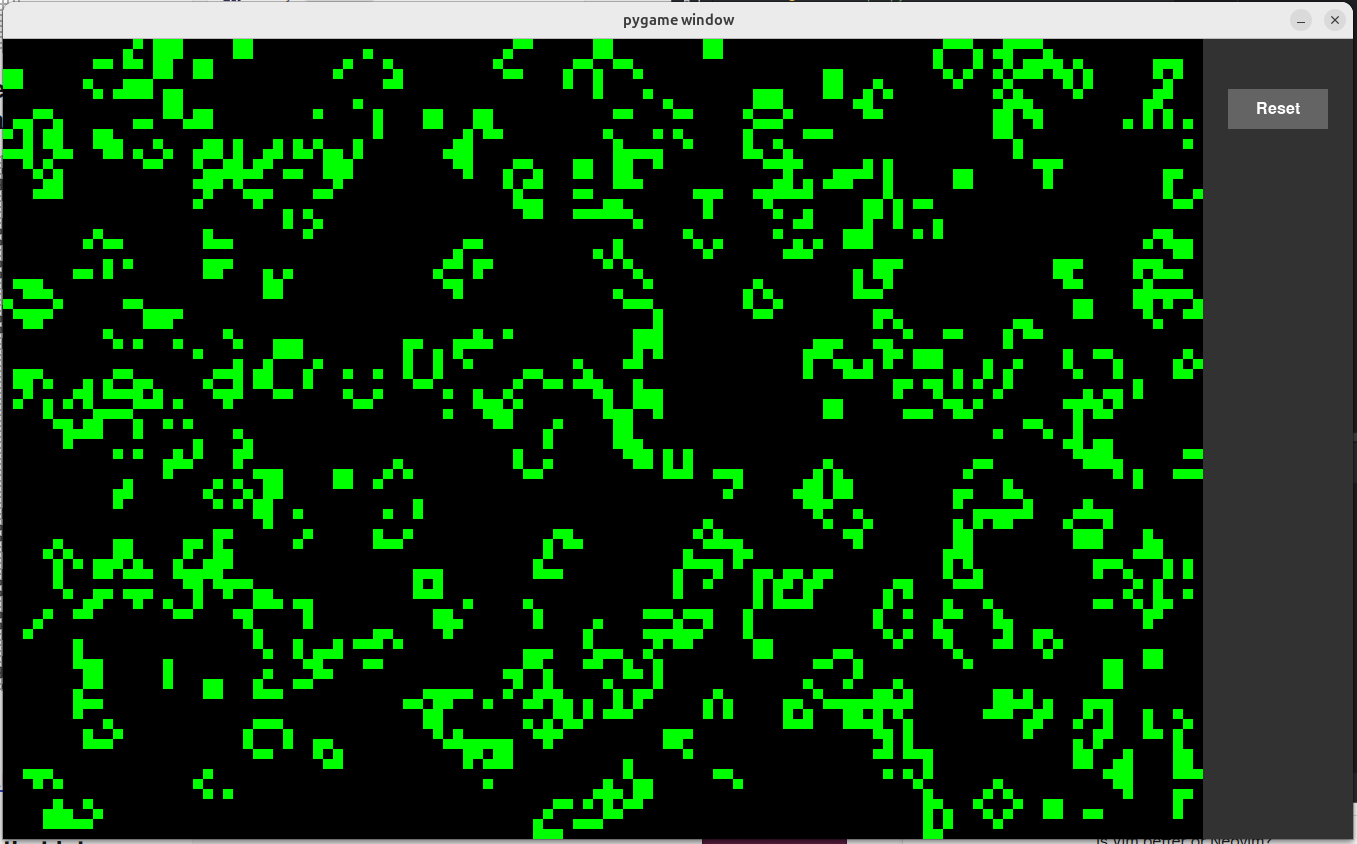
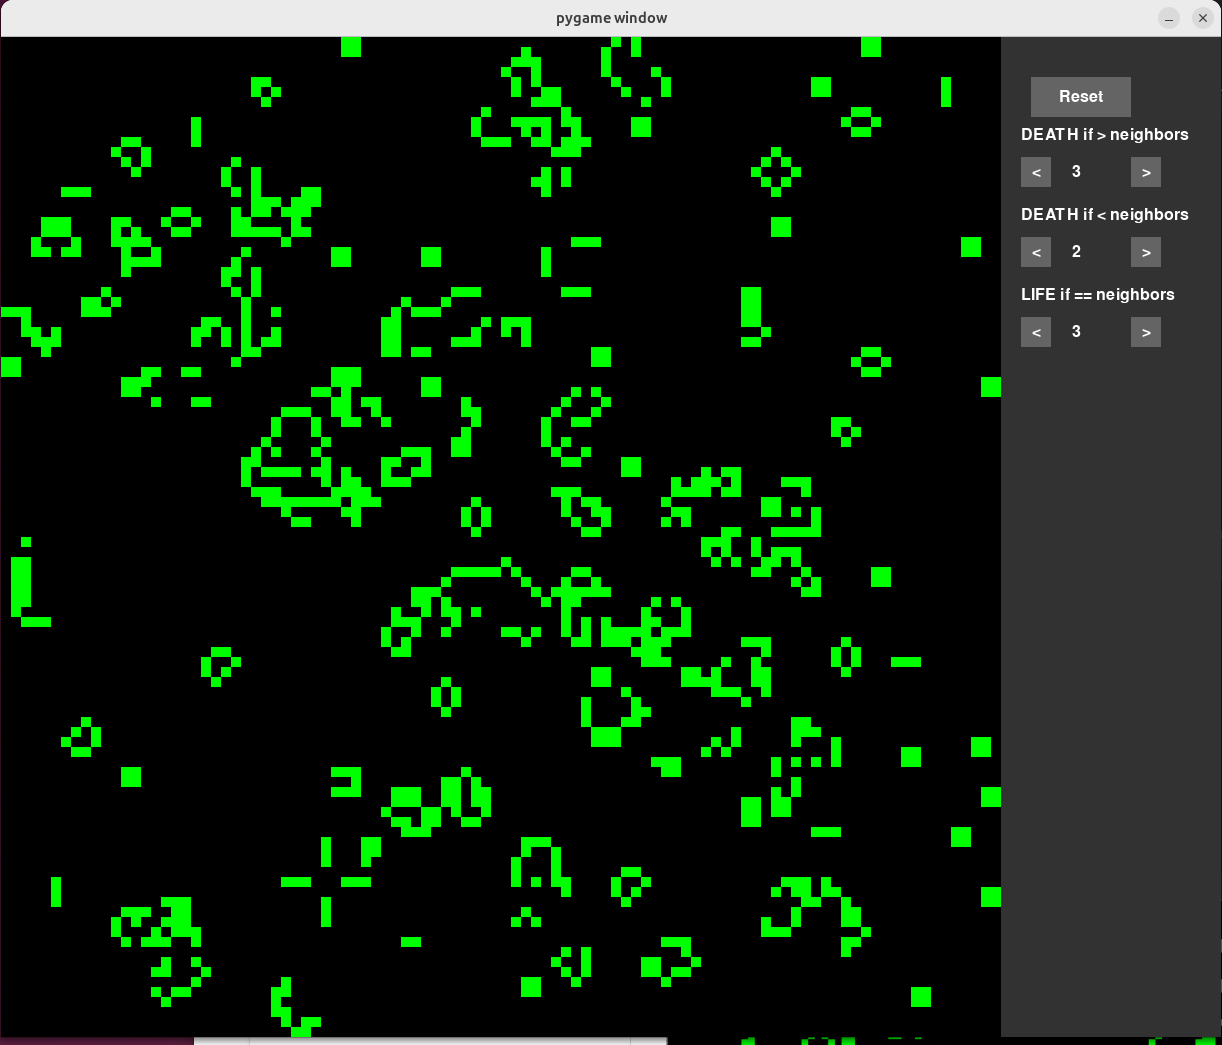
controls

diff --git a/gameoflife/game.py b/gameoflife/game.py
@@ -1,9 +1,10 @@
 import pygame
 import numpy as np
 
+# === Config ===
 CELL_SIZE = 10
-GRID_WIDTH, GRID_HEIGHT = 120, 80
-PANEL_WIDTH = 150  # Width of side panel
+GRID_WIDTH, GRID_HEIGHT = 100, 100
+PANEL_WIDTH = 220
 WINDOW_WIDTH = GRID_WIDTH * CELL_SIZE + PANEL_WIDTH
 WINDOW_HEIGHT = GRID_HEIGHT * CELL_SIZE
 FPS = 10
@@ -15,63 +16,98 @@ BUTTON_COLOR = (100, 100, 100)
 BUTTON_HOVER_COLOR = (150, 150, 150)
 TEXT_COLOR = (255, 255, 255)
 
+# === Init ===
 pygame.init()
 screen = pygame.display.set_mode((WINDOW_WIDTH, WINDOW_HEIGHT))
 clock = pygame.time.Clock()
-font = pygame.font.SysFont(None, 24)
+font = pygame.font.SysFont("Segoe UI Emoji", 24)
 
-# randomly setup 1s and 0s
+# === State ===
+MIN_LIMIT = 0
+MAX_LIMIT = 8
+grid = np.random.choice([0, 1], size=(GRID_HEIGHT, GRID_WIDTH))
+
+rules = [
+    {"label": "DEATH if > neighbors", "value": 3, "y": 120, "key": "overpop"},
+    {"label": "DEATH if < neighbors", "value": 2, "y": 200, "key": "underpop"},
+    {"label": "LIFE if == neighbors", "value": 3, "y": 280, "key": "repro"},
+]
+rule_map = {r["key"]: r for r in rules}
+
+reset_button_rect = pygame.Rect(WINDOW_WIDTH - PANEL_WIDTH + 30, 40, 100, 40)
+button_size = (30, 30)
+left_x = WINDOW_WIDTH - PANEL_WIDTH + 20
+right_x = left_x + 110
+
+# === Functions ===
+
 def create_random_grid():
     return np.random.choice([0, 1], size=(GRID_HEIGHT, GRID_WIDTH))
 
-grid = create_random_grid()
-
 def count_neighbors(grid, x, y):
-    neighbors = grid[max(0,y-1):y+2, max(0,x-1):x+2]
-    total = np.sum(neighbors) - grid[y, x]
-    return total
+    neighbors = grid[max(0, y-1):y+2, max(0, x-1):x+2]
+    return np.sum(neighbors) - grid[y, x]
 
 def update_grid(grid):
     new_grid = np.zeros_like(grid)
     for y in range(GRID_HEIGHT):
         for x in range(GRID_WIDTH):
-            neighbors = count_neighbors(grid, x, y)
-            if grid[y, x] == 1 and neighbors in [2, 3]:
-                new_grid[y, x] = 1
-            elif grid[y, x] == 0 and neighbors == 3:
-                new_grid[y, x] = 1
+            n = count_neighbors(grid, x, y)
+            if grid[y, x] == 1:
+                if rule_map["underpop"]["value"] <= n <= rule_map["overpop"]["value"]:
+                    new_grid[y, x] = 1
+            else:
+                if n == rule_map["repro"]["value"]:
+                    new_grid[y, x] = 1
     return new_grid
 
-# Define reset button rect
-reset_button_rect = pygame.Rect(WINDOW_WIDTH - PANEL_WIDTH + 25, 50, 100, 40)
+def draw_button(rect, text, mouse_pos):
+    color = BUTTON_HOVER_COLOR if rect.collidepoint(mouse_pos) else BUTTON_COLOR
+    pygame.draw.rect(screen, color, rect)
+    txt = font.render(text, True, TEXT_COLOR)
+    screen.blit(txt, txt.get_rect(center=rect.center))
+
+def draw_rule_control(rule, mouse_pos):
+    label = font.render(rule["label"], True, TEXT_COLOR)
+    screen.blit(label, (left_x, rule["y"] - 30))
+
+    rule["minus_rect"] = pygame.Rect(left_x, rule["y"], *button_size)
+    rule["plus_rect"] = pygame.Rect(right_x, rule["y"], *button_size)
+
+    draw_button(rule["minus_rect"], "<", mouse_pos)
+    draw_button(rule["plus_rect"], ">", mouse_pos)
+
+    val_text = font.render(str(rule["value"]), True, TEXT_COLOR)
+    val_rect = val_text.get_rect(center=((left_x + right_x) // 2, rule["y"] + 15))
+    screen.blit(val_text, val_rect)
+
+def handle_rule_click(pos):
+    for rule in rules:
+        if rule["minus_rect"].collidepoint(pos):
+            rule["value"] = max(MIN_LIMIT, rule["value"] - 1)
+        elif rule["plus_rect"].collidepoint(pos):
+            rule["value"] = min(MAX_LIMIT, rule["value"] + 1)
+
+# === Main loop ===
 
 running = True
 while running:
     screen.fill(DEAD_COLOR)
 
-    # grid cells
+    # Draw cells
     for y in range(GRID_HEIGHT):
         for x in range(GRID_WIDTH):
-            if grid[y, x] == 1:
-                rect = pygame.Rect(x*CELL_SIZE, y*CELL_SIZE, CELL_SIZE, CELL_SIZE)
-                pygame.draw.rect(screen, ALIVE_COLOR, rect)
+            if grid[y, x]:
+                pygame.draw.rect(screen, ALIVE_COLOR, (x * CELL_SIZE, y * CELL_SIZE, CELL_SIZE, CELL_SIZE))
 
-    # side panel
-    panel_rect = pygame.Rect(WINDOW_WIDTH - PANEL_WIDTH, 0, PANEL_WIDTH, WINDOW_HEIGHT)
-    pygame.draw.rect(screen, PANEL_COLOR, panel_rect)
-
-    # reset button
+    # Side panel
+    pygame.draw.rect(screen, PANEL_COLOR, (WINDOW_WIDTH - PANEL_WIDTH, 0, PANEL_WIDTH, WINDOW_HEIGHT))
     mouse_pos = pygame.mouse.get_pos()
 
-    if reset_button_rect.collidepoint(mouse_pos):
-        color = BUTTON_HOVER_COLOR
-    else:
-        color = BUTTON_COLOR
-    pygame.draw.rect(screen, color, reset_button_rect)
+    draw_button(reset_button_rect, "Reset", mouse_pos)
 
-    text_surface = font.render("Reset", True, TEXT_COLOR)
-    text_rect = text_surface.get_rect(center=reset_button_rect.center)
-    screen.blit(text_surface, text_rect)
+    for rule in rules:
+        draw_rule_control(rule, mouse_pos)
 
     pygame.display.flip()
     grid = update_grid(grid)
@@ -81,9 +117,10 @@ while running:
         if event.type == pygame.QUIT:
             running = False
 
-        elif event.type == pygame.MOUSEBUTTONDOWN:
-            if event.button == 1:
-                if reset_button_rect.collidepoint(event.pos):
-                    grid = create_random_grid()
+        elif event.type == pygame.MOUSEBUTTONDOWN and event.button == 1:
+            if reset_button_rect.collidepoint(event.pos):
+                grid = create_random_grid()
+            else:
+                handle_rule_click(event.pos)
 
 pygame.quit()

diff --git a/README.md b/README.md
@@ -2,4 +2,6 @@
 Decided to setup the classic conways game of life so my kids can play with it.
 Used pygame , seemed simplest way to setup
 
+Might add some features to manually setup start patterns one day...
+
 ![img.png](img.png)
